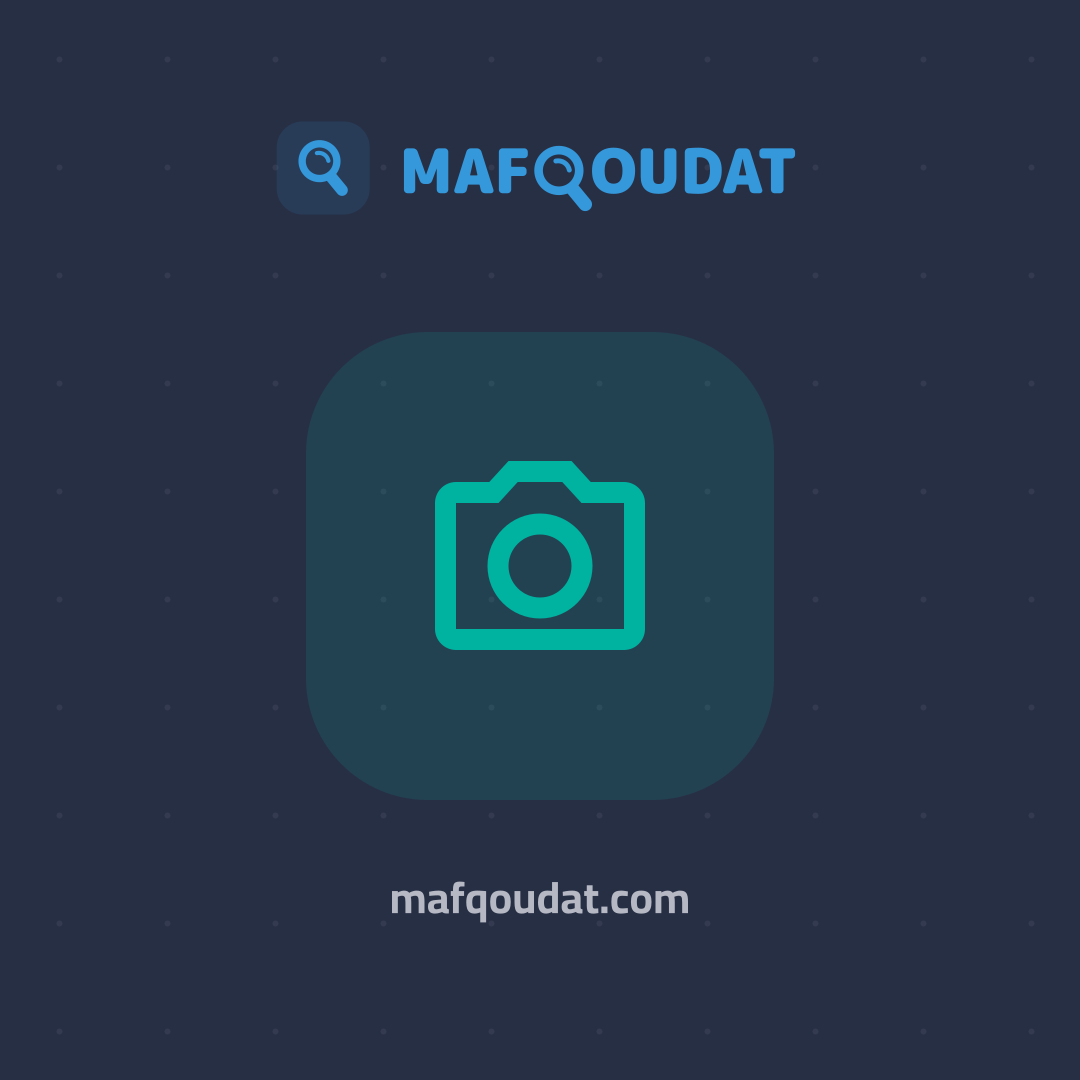
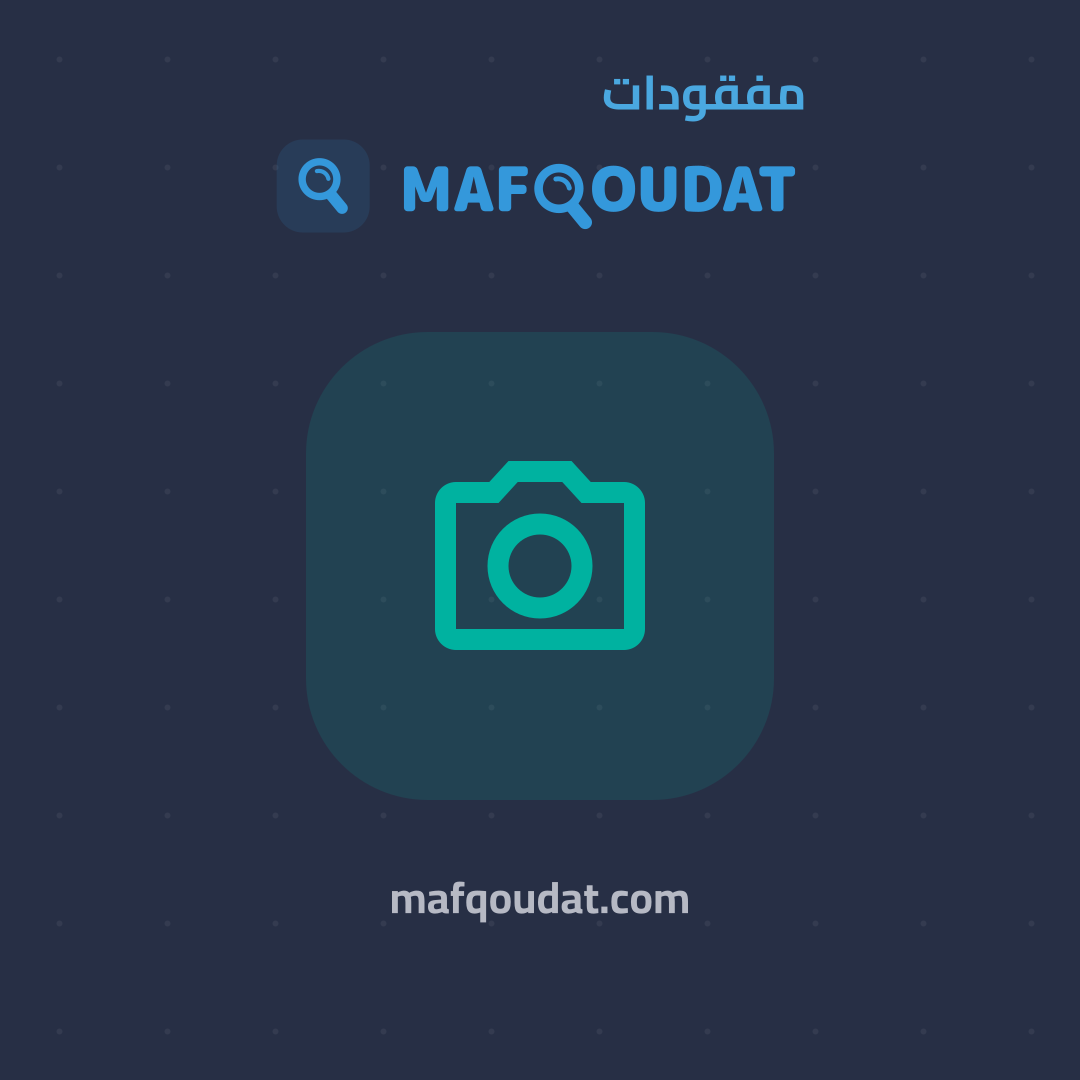
feat: add the Arabic name to the category social cards
The brand lockup on the auto-post graphics now carries مفقودات above the Latin
wordmark, set to the wordmark's trailing edge — which in Arabic is where the
word begins — in a lighter step of the logo blue, since at that size the logo
blue itself reads as a shadow of the word below it. The lockup moved down to
make room; nothing else on the card changed.

The word is outlined into client/scripts/assets/arabicWordmark.svg the way the
domain line already is, so rasterising still needs no font installed. It is
shaped with fontkit rather than opentype.js: opentype.js applies no Arabic
joining, so the letters would have come out as unconnected isolated forms.

The generator now takes category codes as arguments, to rebuild one card while
tuning the layout instead of rewriting all nineteen.

Claude-Session: https://claude.ai/code/session_01RSSxZhwxyFrg1RQzDAV8ki

Changed region(s): [[0.3667, 0.0611, 0.7333, 0.2139], [0.275, 0.1222, 0.3361, 0.2139]]

diff --git a/client/scripts/buildCategorySocialImages.js b/client/scripts/buildCategorySocialImages.js
@@ -45,6 +45,11 @@ const DOT = '#343B50';
 const BRAND = '#3498DB';
 const TEXT = '#EDEFF5';
 
+// The Arabic name above the wordmark. A lighter step of BRAND rather than the
+// logo blue itself: it sits at a smaller size than the wordmark it heads, and
+// the logo blue at that weight reads as a shadow of the word below it.
+const BRAND_ARABIC = '#4AA8E0';
+
 // The placeholder's dot grid, same origin/step/radius.
 const DOT_ORIGIN = 59.5;
 const DOT_STEP = 108;
@@ -278,6 +283,14 @@ function placeSvgFile(relativeToClient, { x, y, width, height }) {
   return `<svg x="${x}" y="${y}" width="${width}" height="${height}" viewBox="${viewBox[2]}" ${inherited}>${children}</svg>`;
 }
 
+/** width / height of a source SVG's own viewBox. */
+function svgAspect(relativeToClient) {
+  const viewBox = readFile(relativeToClient).match(/viewBox="([^"]+)"/);
+  if (!viewBox) throw new Error(`${relativeToClient} has no viewBox`);
+  const [, , width, height] = viewBox[1].split(/[\s,]+/).map(Number);
+  return width / height;
+}
+
 function dotGrid() {
   const dots = [];
   for (let y = DOT_ORIGIN; y < CANVAS; y += DOT_STEP) {
@@ -296,15 +309,29 @@ const LOCKUP_TILE = 150 * LOCKUP_SCALE;
 const LOCKUP_GAP = 48 * LOCKUP_SCALE;
 const LOCKUP_WORDMARK_HEIGHT = 141 * LOCKUP_SCALE;
 const LOCKUP_WORDMARK_WIDTH = LOCKUP_WORDMARK_HEIGHT * (328 / 71);
-const LOCKUP_CENTER_Y = 168;
+const LOCKUP_CENTER_Y = 186;
+
+// The Arabic name heads the Latin wordmark rather than sitting beside it, and
+// is set to the wordmark's trailing edge - which in Arabic is where the word
+// begins.
+const ARABIC_WORDMARK_FILE = 'scripts/assets/arabicWordmark.svg';
+const ARABIC_WORDMARK_HEIGHT = 46;
+const ARABIC_WORDMARK_GAP = 18;
 
 function brandLockup() {
   const totalWidth = LOCKUP_TILE + LOCKUP_GAP + LOCKUP_WORDMARK_WIDTH;
   const left = (CANVAS - totalWidth) / 2;
   const tileY = LOCKUP_CENTER_Y - LOCKUP_TILE / 2;
   const glyph = LOCKUP_TILE * 0.6;
+  const arabicWidth = ARABIC_WORDMARK_HEIGHT * svgAspect(ARABIC_WORDMARK_FILE);
 
   return [
+    `<g fill="${BRAND_ARABIC}">${placeSvgFile(ARABIC_WORDMARK_FILE, {
+      x: left + totalWidth - arabicWidth,
+      y: tileY - ARABIC_WORDMARK_GAP - ARABIC_WORDMARK_HEIGHT,
+      width: arabicWidth,
+      height: ARABIC_WORDMARK_HEIGHT,
+    })}</g>`,
     `<rect x="${left}" y="${tileY}" width="${LOCKUP_TILE}" height="${LOCKUP_TILE}" rx="${LOCKUP_TILE * 0.28}" fill="${BRAND}" fill-opacity="0.13"/>`,
     placeSvgFile('public/maficonSVG.svg', {
       x: left + (LOCKUP_TILE - glyph * (47 / 53)) / 2,
@@ -341,15 +368,14 @@ function heroTile(color, icon) {
   ].join('');
 }
 
+const DOMAIN_FILE = 'scripts/assets/domainWordmark.svg';
 const DOMAIN_WIDTH = 296;
 const DOMAIN_CENTER_Y = 902;
 
 function domainWordmark() {
-  const markup = readFile('scripts/assets/domainWordmark.svg');
-  const viewBox = markup.match(/viewBox="([^"]+)"/)[1].split(' ').map(Number);
-  const height = DOMAIN_WIDTH * (viewBox[3] / viewBox[2]);
+  const height = DOMAIN_WIDTH / svgAspect(DOMAIN_FILE);
 
-  return `<g fill="${TEXT}" fill-opacity="0.72">${placeSvgFile('scripts/assets/domainWordmark.svg', {
+  return `<g fill="${TEXT}" fill-opacity="0.72">${placeSvgFile(DOMAIN_FILE, {
     x: (CANVAS - DOMAIN_WIDTH) / 2,
     y: DOMAIN_CENTER_Y - height / 2,
     width: DOMAIN_WIDTH,
@@ -372,7 +398,14 @@ function buildCard({ color, icon }) {
 /* ------------------------------------------------------------------ run --- */
 
 async function main() {
-  const categories = resolveCategories();
+  // Category codes may be passed as arguments to rebuild only those - for
+  // looking at one card while tuning the layout, rather than rewriting all 19.
+  const only = process.argv.slice(2).map((code) => code.toUpperCase());
+  const all = resolveCategories();
+  const categories = only.length > 0 ? all.filter(({ code }) => only.includes(code)) : all;
+
+  if (categories.length === 0) throw new Error(`No category matches ${only.join(', ')}`);
+
   fs.mkdirSync(OUTPUT_DIR, { recursive: true });
 
   for (const category of categories) {
